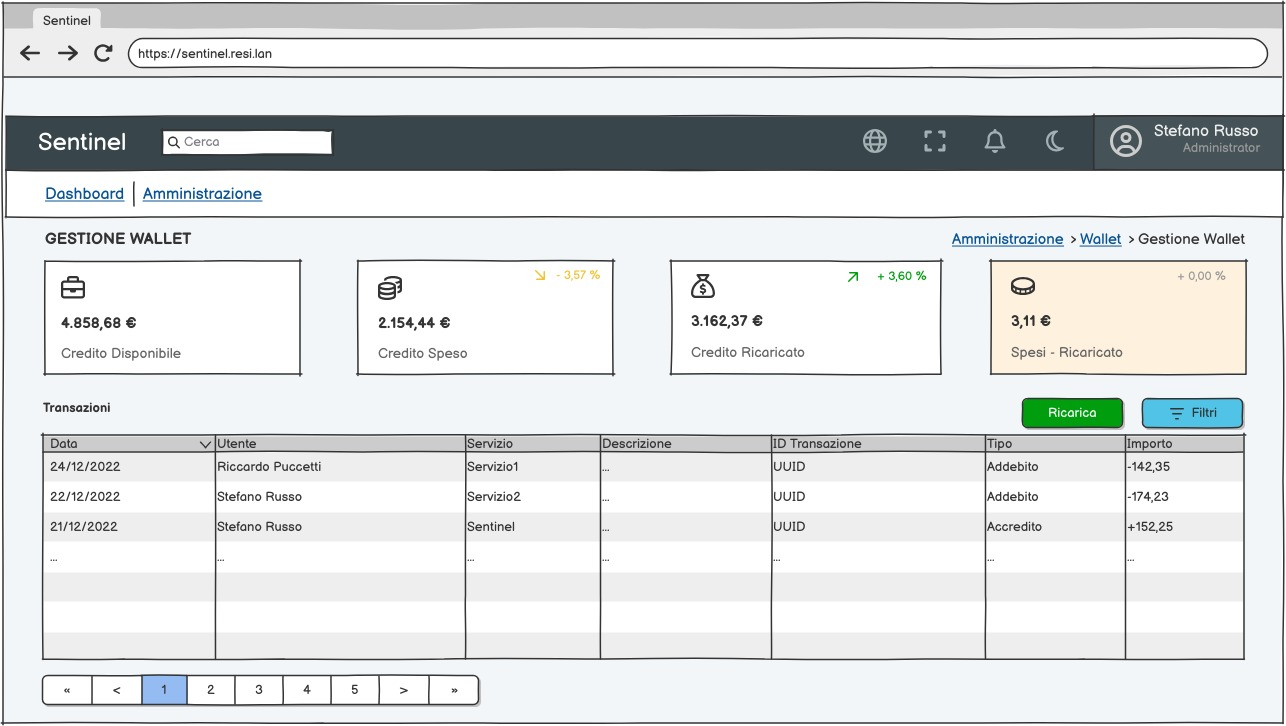
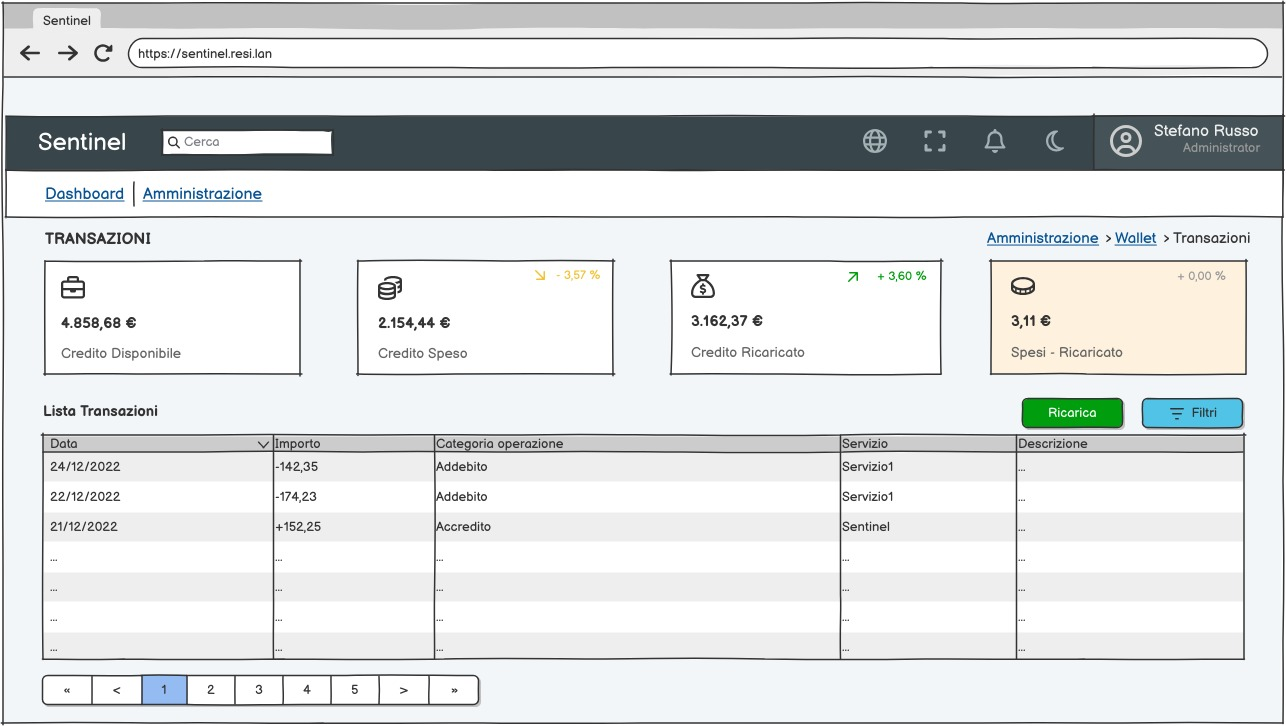
Scritta sezione di Postgres, iniziata sezione di stripe, continuato capitolo raccolta requisiti

diff --git a/src/chapters/3_architettura_tecnologie.tex b/src/chapters/3_architettura_tecnologie.tex
@@ -7,12 +7,12 @@ L'applicativo si basa su tecnologie e servizi ampiamente adottati e consolidati 
 Rabbit \`e un message broker, cio\`e, un software che consente la comunicazione asincrona tra programmi.
 Funziona attraverso \textit{queues} (code) su cui i \textit{producers} (mittenti) inviano messaggi definiti a priori,
 e i \textit{consumers} (destinatari) consumano questi messaggi eseguendo operazioni in base al loro contenuto.
-Rabbit in particolare utilizza gli \textit{exchange}, un punto intermedio tra i producer e le queues.
+Rabbit in particolare utilizza gli \textit{exchange}, un punto intermedio tra i producers e le queues.
 L'exchange riceve i messaggi dei producers e li instrada confrontando la \textit{routing key} del messaggio con determinate regole dette \textit{bindings}.\\\\
 %
 Rabbit ha diversi punti di forza, alcuni intrinsechi del tipo di software di cui fa parte, altri per via delle sue caratteristiche specifiche:\
 \begin{itemize}
-  \item \textbf{Scalabilit\`a} -  Il carico di lavoro viene distribuito automaticamente tra i consumer, e finch\'e i messaggi
+  \item \textbf{Scalabilit\`a} -  Il carico di lavoro viene distribuito automaticamente tra i consumers, e finch\'e i messaggi
     non vengono processati questi rimangono in coda.
   \item \textbf{Flessibilit\`a nel routing dei messaggi} - Rabbit offre molteplici modi di configurare gli exchange a seconda delle esigenze:
     \begin{enumerate}
@@ -30,7 +30,7 @@ Rabbit ha diversi punti di forza, alcuni intrinsechi del tipo di software di cui
           \caption{Esempio di Topic Exchange\cite{rabbitmq}}
         \end{figure}
       \item \textit{Header Exchange} - Utile per instradare i messaggi in base a molteplici argomenti, per esempio \`e possibile creare una coda
-        che riceve messaggi con header ``format=pdf''
+        che riceve solo messaggi con header ``format=pdf''
     \end{enumerate}
   \item \textbf{Affidabilit\`a} -  Rabbit \`e in grado di offrire un elevato grado di affidabilit\`a grazie a  molteplici meccanismi:
     \begin{enumerate}
@@ -43,22 +43,54 @@ Rabbit ha diversi punti di forza, alcuni intrinsechi del tipo di software di cui
       \item \textit{DLX (Dead-letter Exchange)} - Sono normali exchange su cui vengono inviati i messaggi \textit{``dead-lettered''}: messaggi che hanno
         ricevuto un nack (\textit{negative acknowledgement}), messaggi che hanno superato il TTL definito per messaggio, messaggi
         scartati perch\`e la queue ha superato uno dei limiti imposti, o messaggi che hanno superato il numero massimo di re-try consentito dalla coda.
-      \item \textit{Persistenza dei messaggi} -  \`e possibile persistere i messaggi presenti nelle queue sul disco,
-        che significa che questi non vengono persi al riavvio o al crash del server. La persistenza pu\`o essere attivata sia sulle code che sui singoli messaggi.
+      \item \textit{Persistenza dei messaggi} -  \`E possibile persistere i messaggi presenti nelle queue sul disco,
+        cio\`e non vengono persi al riavvio o al crash del server. La persistenza pu\`o essere attivata sia sulle code che sui singoli messaggi.
         Il contro della persistenza \`e che aumenta la latenza, ma offre ovviamente una maggiore affidabilit\`a.
     \end{enumerate}
 \end{itemize}
 
 \section{PostgreSQL}
-Placeholder
+La scelta di PostgreSQL deriva dalla completezza delle funzionalit\`a che offre, che lo rendono un'opzione desiderabile per applicazioni aziendali.
+Di seguito alcune delle caratteristiche che lo contraddistinguono:
+
+\begin{itemize}
+  \item \textit{Elevate prestazioni} - \`E un database relazionale molto performante in grado di supportare decine di migliaia di operazioni al secondo sul giusto hardware,
+    e offre una latenza minore rispetto a DBMS concorrenti come \textit{MySQL} in molte operazioni.\cite{salunke2024performance}
+  \item \textit{Robustezza} - Postgres supporta molte funzioni di sicurezza, come autenticazione SSL, o configurazione dei permessi granulare fino al
+    livello di colonne e righe.
+    \`E completamente conforme ai requisiti \textit{ACID} (Atomicity, Consistency, Integrity, Durability).
+    Per assicurare le propriet\`a ACID, PostgreSQL utilizza metodologie come MVCC (Multi-Version Concurrency Control) e WAL (Write-Ahead Logging).
+  \item \textit{Scalabilit\`a} - Ha ottime capacit\`a di scalabilit\`a verticale, che si traduce nell'utilizzo di tutti i core,
+    di tutta la RAM o di maggiore velocit\`a di lettura/scrittura dei dischi.
+    Supporta inoltre il clustering e la replication, e ha quindi anche capacit\`a di scalabilit\`a orizzontale.
+    \begin{figure}[H]
+      \centering
+      \includegraphics[width=15cm]{images/postgres-replication.png}
+      \caption{Esempio di replica\cite{postgreshighavail}}
+    \end{figure}
+  \item \textit{Supporto per transazioni complesse} - Postgres supporta la scrittura di transazioni complesse e funzioni procedurali attraverso un linguaggio chiamato
+    \textit{PL/pgSQL}, che permette di creare logiche pi\`u avanzate.
+\end{itemize}
+
 \section{Java}
 Placeholder
 \subsection {SpringBoot}
 Placeholder
 \section{Angular}
-Placeholder
+Angular \`e uno dei framework JavaScript pi\`u popolari,
 \section{Stripe}
-Placeholder
+Stripe \`e una piattaforma di pagamento che funge da intermediario nelle transazioni elettroniche.
+\\\\
+%Stripe implementa in maniera trasparente tutti gli accorgimenti necessari per garantire sicurezza e accuratezza, tra cui:
+
+\begin{itemize}
+  \item \textit{Facilit\`a di integrazione} - Il processo di integrazione all'interno di un applicativo \`e semplice, e offre molte opzioni di configurazione e servizi.
+    A seconda delle esigenze, \`e possibile passare da una configurazione predefinita con pochissimo codice a un'esperienza completamente personalizzata dallo sviluppatore.
+  \item \textit{Sicurezza} -
+  \item \textit{Scalabilit\`a} -
+  \item \textit{Supporto a molti metodi di pagamento} -
+  \item \textit{Documentazione estensiva} -
+\end{itemize}
 \section{Docker}
 Placeholder
 \subsection{Kubernetes}

diff --git a/src/chapters/2_raccolta_requisiti.tex b/src/chapters/2_raccolta_requisiti.tex
@@ -2,13 +2,11 @@
 L'applicazione prevede la presenza di un Wallet associato a ciascun tenant, che pu\`o essere ricaricato tramite pagamenti effettuati con \textit{Stripe}.
 All'interno del sistema sono previsti dei \textit{workflow}, processi che utilizzano dati provenienti da banche dati esterne per effettuare analisi di vario tipo.
 Ogni operazione all'interno del workflow ha un costo, e per ognuna di queste viene scalato un determinato importo in base a un listino prezzi associato al tenant di appartenenza dell'utente.
-Quando un'operazione viene inserita nella coda pagamenti, questa viene registrata nel database e il relativo importo viene scalato automaticamente dal Wallet del tenant.
+Quando un'operazione viene inserita nella coda pagamenti, questa viene registrata nel database e il relativo importo viene scalato automaticamente dal Wallet del tenant.\\\\
+In questo capitolo ci concentreremo sulle interfacce del Frontend. Per quanto riguarda gli altri requisiti funzionali, verranno discussi in dettaglio nei capitoli successivi.
+L'interfaccia prevede la suddivisione in due schermate principali, una per la gestione del Wallet e una per la gestione dei listini prezzi.
 
-In questo capitolo descriveremo descriveremo le interfacce e faremo alcune considerazioni sulla scelta della piattaforma di pagamento per le ricariche.
-Parleremo degli altri requisiti funzionali pi\`u in dettaglio nei prossimi capitoli.\\\\
-All'interno dell'interfaccia devono essere presenti due schermate, una per la gestione del Wallet e una per la gestione dei listini prezzi.
-
-\section{Sezione gestione Wallet}
+\section{Sezione per la gestione del Wallet}
 L'utente ha a disposizione una dashboard per monitorare il Wallet del suo tenant di appartenenza in cui pu\`o visualizzare lo storico delle transazioni e ricaricare il Wallet.
 
 \begin{figure}[H]
@@ -17,38 +15,37 @@ L'utente ha a disposizione una dashboard per monitorare il Wallet del suo tenant
   \caption{Wireframe della schermata di Gestione Wallet}
 \end{figure}
 
-Nella parte superiore abbiamo dei widget che riportano alcune informazioni in modo da essere facilmente accessibili:
+Nella parte superiore sono presenti dei widget che riportano alcune informazioni in modo da essere facilmente accessibili:
 \begin{enumerate}
   \item Credito disponibile
-  \item Credito speso, con andamento in relazione al mese precedente
-  \item Credito depositato, con andamento in relazione al mese precedente
-  \item Differenza tra credito speso e credito depositato, con andamento in relazione al mese precedente.
+  \item Credito speso  nel mese corrente
+  \item Credito depositato nel mese corrente
+  \item Differenza tra credito speso e credito depositato nel mese corrente
 \end{enumerate}
-
-Il bottone \textit{Ricarica} apre una schermata che ti permette di caricare un importo arbitrario nel Wallet:
+Gli ultimi tre grafici riportano anche l'andamento rispetto al mese precedente.
+\\\\
+Il bottone \textit{Ricarica} apre una schermata che permette di caricare un importo arbitrario, con la possibilit\`a di scegliere
+dei tagli prestabiliti:
 
 \begin{figure}[H]
   \centering
-  % \includegraphics[width=8.5cm]{images/mock-gestione-wallet.png}
+  \includegraphics[width=8.5cm]{images/gestione-wallet/mock-seleziona-importo.png}
   \caption{Wireframe della schermata di selezione importo }
 \end{figure}
-
-Andando avanti si conferma l'importo e si passa alla schermata di pagamento di Stripe
+Procedendo al pagamento si conferma l'importo, passando quindi alla schermata di pagamento di Stripe, come illustrato nella figura seguente:
 
 \begin{figure}[H]
   \centering
-  % \includegraphics[width=8.5cm]{images/mock-gestione-wallet.png}
+  \includegraphics[width=5.5cm]{images/gestione-wallet/mock-stripe.png}
   \caption{Wireframe della schermata di pagamento con Stripe }
 \end{figure}
 
-Il bottone \textit{Filtri} apre una schermata laterale in cui \`e possibile selezionare le propriet\`a per cui deve venire filtrata la lista delle transazioni.
+Il bottone \textit{Filtri} apre una schermata laterale dove \`e possibile selezionare le propriet\`a per cui deve essere filtrata la lista delle transazioni.
 
 \begin{figure}[H]
   \centering
-  % \includegraphics[width=8.5cm]{images/mock-gestione-wallet.png}
+  \includegraphics[width=6cm]{images/gestione-wallet/mock-filtri-ricerca.png}
   \caption{Wireframe della schermata dei filtri}
 \end{figure}
 
-\section{Sezione gestione listini prezzi}
-
-\section{Considerazioni metodi di pagamento}
+\section{Sezione per la gestione dei listini prezzi}

diff --git a/src/_preamble.tex b/src/_preamble.tex
@@ -6,7 +6,7 @@
 \usepackage{microtype}
 \usepackage{hyperref}
 \usepackage{float}
-\usepackage{biblatex}
+\usepackage[sorting=none]{biblatex}
 
 \newcommand{\tesititolo}{Sentinel: Sviluppo di un Modulo di Gestione Conti con Architettura Event-Driven e Frontend Angular}
 \newcommand{\tesiautore}{Stefano Russo}
